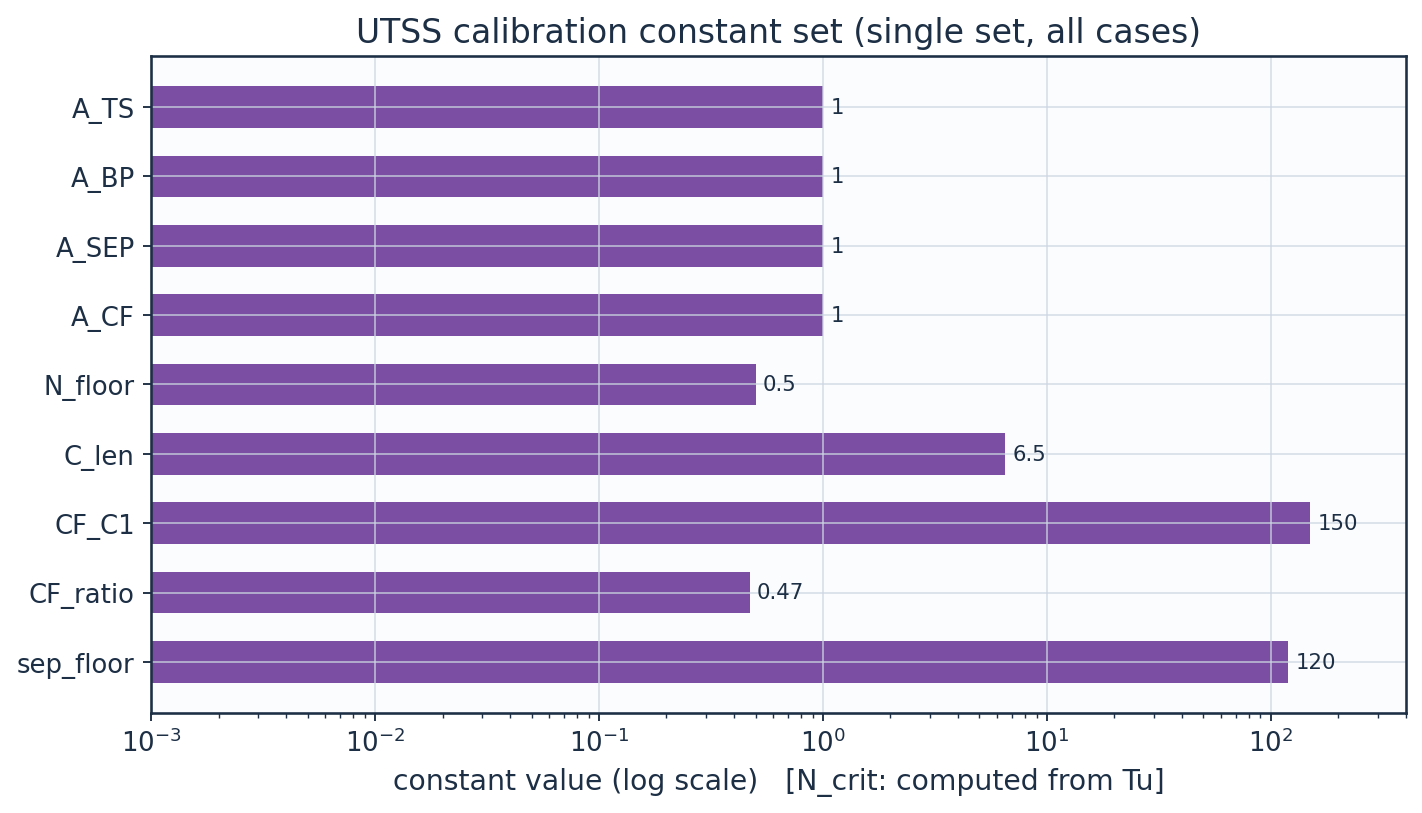
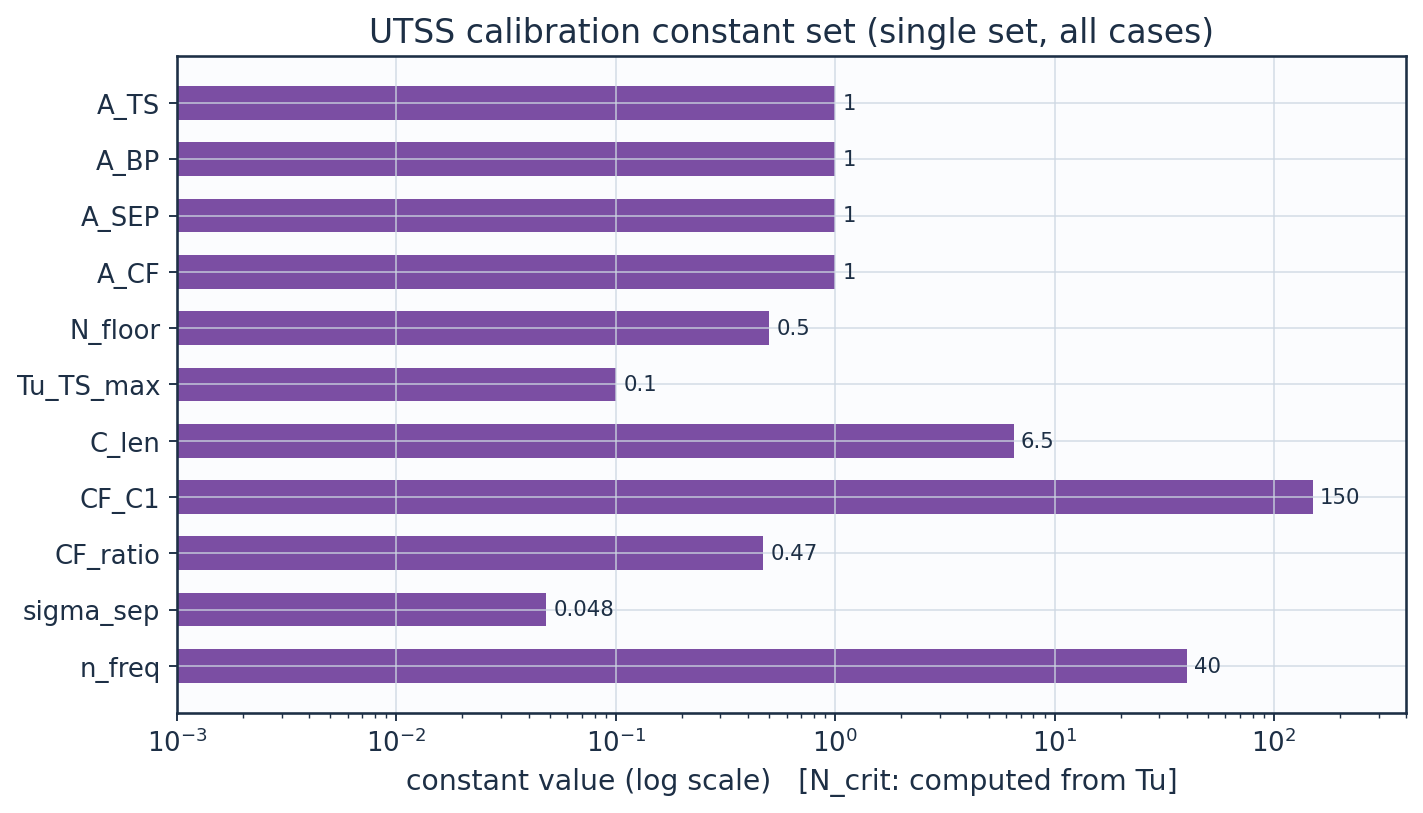
Bring the report, equation set and calibration table in line with the solver
The report narrative still described the Drela-Giles envelope, the algebraic
bubble criterion and the Prandtl-Glauert correction, none of which the solver
uses any more; it picked up the new data files automatically but not the
physics behind them.  Sections 2, 3.2, 4.3, 11 and 12 now describe the
amplification database, the bubble closure and the compressible treatment, and
the conclusions state the two limitations that bound the claim: the cross-flow
critical constant does not transfer between facilities, and the method has an
incidence envelope of about +/-8.5 deg on a real section.

Four governing equations added: the Karman-Tsien correction, the
Orr-Sommerfeld operator, Gaster's transformation and Eckert's reference
temperature; the separation-induced onset equation is replaced by the dead-air
momentum march and the reattachment length.

The calibration table listed sep_floor, which has been retired, and quoted
N_crit = 9.00 at the cruise level, which predates the clamp on Mack's relation.
It now lists sigma_sep and n_freq, and records for each constant which
measurements set it.

diff --git a/gen_equations.py b/gen_equations.py
@@ -29,6 +29,8 @@ EQS = [
  # ---- 4.1  Inviscid panel flow ---------------------------------------
  ("E01","4.1  Inviscid panel flow","Pressure coefficient (inviscid)",
    r"C_p = 1 - \left(\frac{V}{U_\infty}\right)^{2}"),
+ ("E04","4.1  Inviscid panel flow","Karman-Tsien compressibility correction",
+   r"C_p = \frac{C_{p,0}}{\beta + \left(\frac{M_\infty^{2}}{1+\beta}\right)\frac{C_{p,0}}{2}}, \quad \beta = \sqrt{1-M_\infty^{2}}"),
  ("E02","4.1  Inviscid panel flow","Vortex-panel surface velocity (Kuethe & Chow)",
    r"\frac{V_{t_i}}{U_\infty} = \cos(\theta_i-\alpha) + \sum_{j=1}^{N} C_{t,ij}\,\gamma_j"),
  ("E03","4.1  Inviscid panel flow","Kutta condition (sharp trailing edge)",
@@ -45,12 +47,18 @@ EQS = [
  ("E09","4.3  Unified transition kernel (novel)","AGS pressure-gradient function",
    r"F(\lambda_\theta) = \begin{cases} 6.91+12.75\lambda_\theta+63.64\lambda_\theta^{2}, & \lambda_\theta \le 0 \\ "
    r"6.91+2.48\lambda_\theta-12.27\lambda_\theta^{2}, & \lambda_\theta > 0 \end{cases}"),
- ("E10","4.3  Unified transition kernel (novel)","Natural / Tollmien-Schlichting onset (low-Tu correlation surrogate)",
-   r"N(x) = \int_{x_0}^{x} -\alpha_i(x')\,dx' \ge N_{crit}"),
+ ("E10","4.3  Unified transition kernel (novel)","Natural / Tollmien-Schlichting onset (e^N, envelope over frequency)",
+   r"N(x) = \max_{\omega} \int_{x_0(\omega)}^{x} \frac{\sigma(H, Re_\theta, \omega\theta/U_e)}{\theta}\,dx' \ge N_{crit}"),
+ ("E10b","4.3  Unified transition kernel (novel)","Orr-Sommerfeld operator (tabulated amplification rates)",
+   r"\left[(U-c)(D^2-\alpha^2) - U''\right]\hat{v} = \frac{1}{i\alpha Re_\theta}(D^2-\alpha^2)^2\hat{v}"),
+ ("E10c","4.3  Unified transition kernel (novel)","Gaster transformation (temporal to spatial growth rate)",
+   r"\sigma = -\alpha_i\theta = \frac{\omega_i}{c_g}, \quad c_g = \frac{\partial\omega_r}{\partial\alpha_r}"),
  ("E11","4.3  Unified transition kernel (novel)","Cross-flow criterion (swept wing, C1 on Re_theta2)",
    r"Re_{\theta 2} = k_{cf}\,Re_\theta\,\sin\Lambda\,\cos\Lambda \ \ge\ C_1"),
- ("E12","4.3  Unified transition kernel (novel)","Separation-induced onset (laminar bubble)",
-   r"\lambda \le -0.09 \Rightarrow Re_{\theta t,sep} = \max\left(Re_{\theta t}^{floor},\, 0.7\,Re_{\theta t,bp}\right)"),
+ ("E12","4.3  Unified transition kernel (novel)","Separation bubble: dead-air momentum march",
+   r"\frac{d\theta}{dx} = -(2+H_s)\frac{\theta}{U_e}\frac{dU_e}{dx}, \quad C_f = 0, \quad H = H_s"),
+ ("E12b","4.3  Unified transition kernel (novel)","Separation bubble: reattachment length",
+   r"x_r - x_s = \frac{N_{crit}\,\theta_s}{\sigma_{sep}}, \quad \sigma_{sep} = 0.048"),
  ("E13","4.3  Unified transition kernel (novel)","Unified minimum-onset transition kernel",
    r"Re_{\theta t}^{*} = \min\left(a_{TS}Re_{\theta t}^{TS},\, a_{BP}Re_{\theta t}^{BP},\, "
    r"a_{SEP}Re_{\theta t}^{SEP},\, a_{CF}Re_{\theta t}^{CF}\right)"),
@@ -74,6 +82,9 @@ EQS = [
    r"\frac{T}{T_e} = 1 + r\frac{\gamma-1}{2}M_e^{2}\left[1-\left(\frac{u}{U_e}\right)^{2}\right]"),
  ("E22","4.5  Drag, temperature & reference scales","Recovery (adiabatic-wall) temperature",
    r"T_r = T_e\left(1 + r\frac{\gamma-1}{2}M_e^{2}\right), \quad r \approx Pr^{1/3}"),
+ ("E22b","4.5  Drag, temperature & reference scales","Eckert reference temperature (compressible closures)",
+   r"\frac{T_{ref}}{T_e} = 1 + 0.032 M_e^{2} + 0.58\left(\frac{T_w}{T_e}-1\right), \quad "
+   r"\frac{\nu_{ref}}{\nu_e} = \left(\frac{T_{ref}}{T_e}\right)^{1+\omega}"),
  ("E23","4.5  Drag, temperature & reference scales","Reynolds number (mean aerodynamic chord)",
    r"Re_{MAC} = \frac{\rho_\infty U_\infty \overline{c}}{\mu_\infty} = \frac{U_\infty \overline{c}}{\nu_\infty}"),
  ("E24","4.5  Drag, temperature & reference scales","Mean aerodynamic chord",

diff --git a/gen_mesh_setup.py b/gen_mesh_setup.py
@@ -196,16 +196,18 @@ def setup_tables():
 
     # calibration constants
     calrows=[
-        ("A_TS",CAL["A_TS"],"TS/natural onset weight","validated on Schubauer-Skramstad (NACA Rep.909)"),
-        ("A_BP",CAL["A_BP"],"bypass onset weight","validated on ERCOFTAC T3A/T3B"),
-        ("A_SEP",CAL["A_SEP"],"separation-induced weight","Mayle (1991) bubble correlation"),
-        ("A_CF",CAL["A_CF"],"crossflow weight","Arnal C1 criterion"),
-        ("N_crit","from Tu","e^N amplification factor","Mack correlation N=-8.43-2.4 ln(Tu); 9.00 at Tu=0.07%"),
+        ("A_TS",CAL["A_TS"],"TS/natural onset weight","unity; validated on Schubauer-Skramstad and NLF(1)-0416 upper surface"),
+        ("A_BP",CAL["A_BP"],"bypass onset weight","unity; validated on ERCOFTAC T3A/T3A-/T3B"),
+        ("A_SEP",CAL["A_SEP"],"separation-induced weight","unity; validated on T3C4 and NLF(1)-0416 lower surface"),
+        ("A_CF",CAL["A_CF"],"crossflow weight","unity; Arnal C1 criterion"),
+        ("N_crit","from Tu","e^N amplification factor","Mack N=-8.43-2.4 ln(Tu), clamped to 0.0008<=Tu<=0.0298; 8.68 for Tu<0.08%"),
         ("N_floor",CAL["N_floor"],"lower clamp on N_crit at high Tu","clamp; bypass governs there"),
+        ("Tu_TS_max",CAL["Tu_TS_max"],"upper Tu for the attached-flow TS branch","complement of the bypass gate"),
         ("C_len",CAL["C_len"],"Narasimha transition-length scale","Dhawan-Narasimha (1958)"),
-        ("CF_C1",CAL["CF_C1"],"crossflow critical Re_theta2","Arnal et al. C1 criterion"),
-        ("CF_ratio",CAL["CF_ratio"],"theta2/theta surrogate for crossflow","calibrated, not validated"),
-        ("sep_floor",CAL["sep_floor"],"min separation onset Re_theta","calibration floor"),
+        ("CF_C1",CAL["CF_C1"],"crossflow critical Re_theta2","Arnal et al. C1 criterion; does not transfer between facilities"),
+        ("CF_ratio",CAL["CF_ratio"],"theta2/theta surrogate for crossflow","set on Dagenhart & Saric; independent check in Sec. IV.C"),
+        ("sigma_sep",CAL["sigma_sep"],"shear-layer amplification rate in a bubble","set on T3C4 and NLF(1)-0416 bubble measurements"),
+        ("n_freq",CAL["n_freq"],"frequencies carried by the e^N integration","discretisation parameter; onset moves <0.2% over 24-64"),
     ]
     pd.DataFrame(calrows,columns=["constant","value","role","calibration_source"]).to_csv(
         f"{SET}/calibration_constants.csv",index=False)
